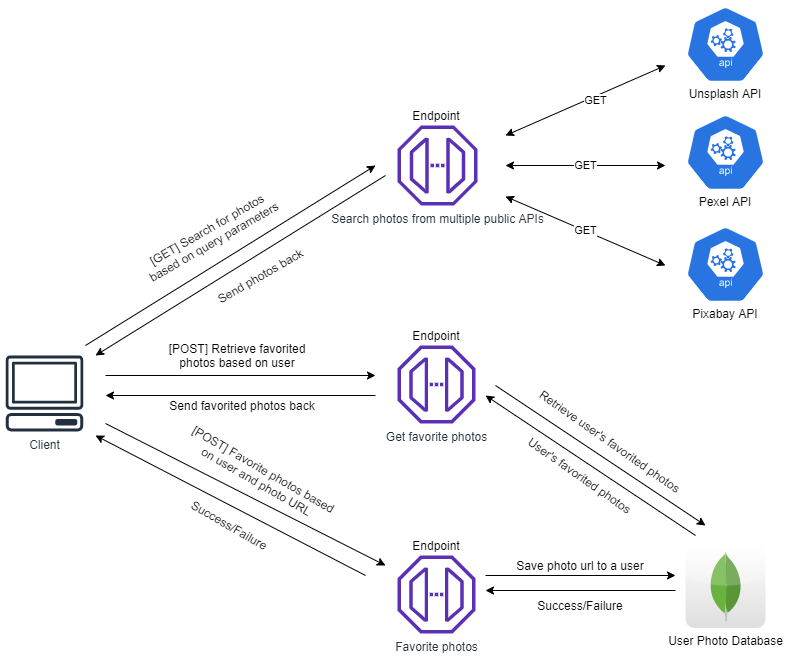
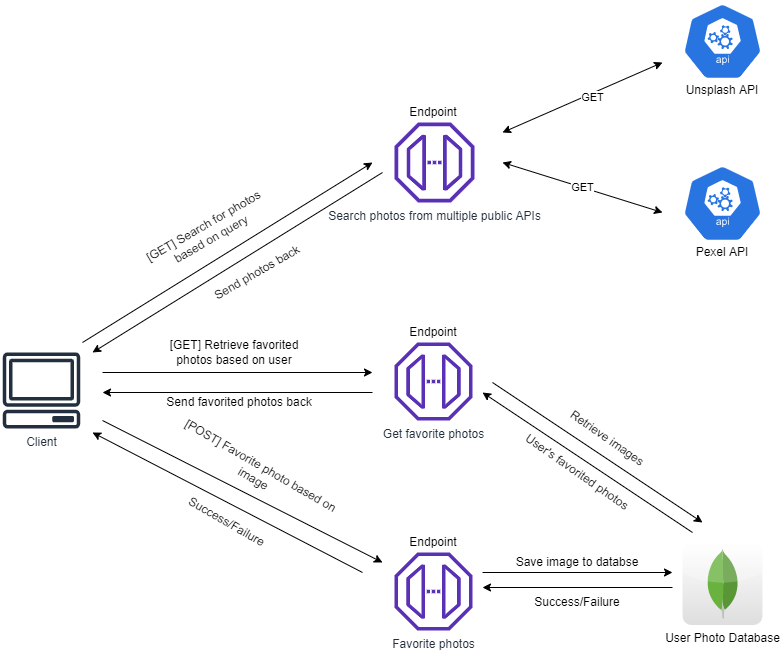
updated readme with updated diagram and database

diff --git a/README.md b/README.md
@@ -71,13 +71,16 @@ Body:
 - **Use Case:** Favorites an image to a user's account if they are logged in.
 - **Type:** POST
 - **Endpoint:** /users/favorites
-- **Parameters:** Body parameter of `url`
+- **Parameters:** Body parameters of `id`, `downloadLink`, `preview`, and `url`.
 - **Return:** JSON
 - **Example Request:** <br>
 Body:
 ```json
 {
-    "url": "https://upload.wikimedia.org/wikipedia/commons/thumb/d/dd/Square_-_black_simple.svg/1200px-Square_-_black_simple.svg.png"  
+  "id": "123152pexel",
+  "downloadLink": "https://upload.wikimedia.org/wikipedia/commons/thumb/a/a0/Circle_-_black_simple.svg/640px-Circle_-_black_simple.svg.png",
+  "preview": "https://upload.wikimedia.org/wikipedia/commons/thumb/a/a0/Circle_-_black_simple.svg/640px-Circle_-_black_simple.svg.png",
+  "url": "https://upload.wikimedia.org/wikipedia/commons/thumb/a/a0/Circle_-_black_simple.svg/640px-Circle_-_black_simple.svg.png",
 }
 ```
 - **Example Response:**
@@ -99,20 +102,22 @@ Body:
 - **Example Response:**
 ```json
 {
-    "favorites": [
-        {
-            "name": "circle",
-            "url": "https://upload.wikimedia.org/wikipedia/commons/thumb/a/a0/Circle_-_black_simple.svg/640px-Circle_-_black_simple.svg.png",
-            "date": "2021-11-29T04:07:22.779Z",
-            "_id": "61a451fa94404fac6c881fd3"
-        },
-        {
-            "name": "square",
-            "url": "https://upload.wikimedia.org/wikipedia/commons/thumb/d/dd/Square_-_black_simple.svg/1200px-Square_-_black_simple.svg.png",
-            "date": "2021-11-29T04:35:26.541Z",
-            "_id": "61a4588eb3a100b54680d559"
-        }
-    ]
+  "favorites": [
+    {
+      "id": "123152pexel",
+      "downloadLink": "https://upload.wikimedia.org/wikipedia/commons/thumb/a/a0/Circle_-_black_simple.svg/640px-Circle_-_black_simple.svg.png",
+      "preview": "https://upload.wikimedia.org/wikipedia/commons/thumb/a/a0/Circle_-_black_simple.svg/640px-Circle_-_black_simple.svg.png",
+      "url": "https://upload.wikimedia.org/wikipedia/commons/thumb/a/a0/Circle_-_black_simple.svg/640px-Circle_-_black_simple.svg.png",
+      "date": "2021-11-29T04:07:22.779Z"
+    },
+    {
+      "id": "1241232131unsplash",
+      "downloadLink": "https://upload.wikimedia.org/wikipedia/commons/thumb/d/dd/Square_-_black_simple.svg/1200px-Square_-_black_simple.svg.png",
+      "preview": "https://upload.wikimedia.org/wikipedia/commons/thumb/d/dd/Square_-_black_simple.svg/1200px-Square_-_black_simple.svg.png",
+      "url": "https://upload.wikimedia.org/wikipedia/commons/thumb/d/dd/Square_-_black_simple.svg/1200px-Square_-_black_simple.svg.png",
+      "date": "2021-11-29T04:35:26.541Z"
+    }
+  ]
 }
 ```
 - **Error Handling:**
@@ -120,12 +125,12 @@ Body:
   - **500:** Server Error
 
 #### Remove favorited image
-- **Use Case:** Removes an image based on name and url from a user's favorited images if they are logged in.
+- **Use Case:** Removes an image based on id from a user's favorited images if they are logged in.
 - **Type:** DELETE
 - **Endpoint:** /users/favorites
-- **Parameters:** Query parameters of `name` and `url`
+- **Parameters:** Query parameter of `id`.
 - **Return:** JSON
-- **Example Request:** /users/favorites?name=square&url=https://upload.wikimedia.org/wikipedia/commons/thumb/d/dd/Square_-_black_simple.svg/1200px-Square_-_black_simple.svg.png
+- **Example Request:** /users/favorites?id=1231231pexel
 - **Example Response:**
 ```json
 {
@@ -154,24 +159,32 @@ Body:
 
 |Name|Type|Description|
 |---|---|---|
-|name|String|Image name|
+|id|String|Image id|
+|downloadLink|String|Image download link|
+|preview|String|Image preview link|
 |url|String|Image url|
 |date|Date|Date of when the image was favorited|
 
 #### Example
 
 ```json
-  username: "uwstudent"
-  favorites: [
+{
+  "username": "uwstudent",
+  "favorites": [
     {
-      "name": "circle",
+      "id": "123152pexel",
+      "downloadLink": "https://upload.wikimedia.org/wikipedia/commons/thumb/a/a0/Circle_-_black_simple.svg/640px-Circle_-_black_simple.svg.png",
+      "preview": "https://upload.wikimedia.org/wikipedia/commons/thumb/a/a0/Circle_-_black_simple.svg/640px-Circle_-_black_simple.svg.png",
       "url": "https://upload.wikimedia.org/wikipedia/commons/thumb/a/a0/Circle_-_black_simple.svg/640px-Circle_-_black_simple.svg.png",
       "date": "2021-11-29T04:07:22.779Z"
     },
     {
-      "name": "square",
+      "id": "1241232131unsplash",
+      "downloadLink": "https://upload.wikimedia.org/wikipedia/commons/thumb/d/dd/Square_-_black_simple.svg/1200px-Square_-_black_simple.svg.png",
+      "preview": "https://upload.wikimedia.org/wikipedia/commons/thumb/d/dd/Square_-_black_simple.svg/1200px-Square_-_black_simple.svg.png",
       "url": "https://upload.wikimedia.org/wikipedia/commons/thumb/d/dd/Square_-_black_simple.svg/1200px-Square_-_black_simple.svg.png",
       "date": "2021-11-29T04:35:26.541Z"
     }
   ]
+}
 ```
